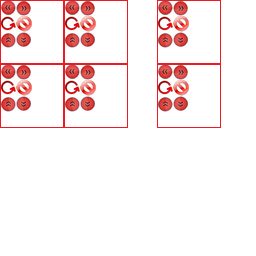
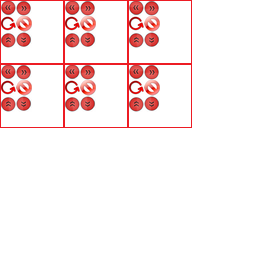
Changed packer to non-rectangular.

Changed region(s): [[0.5, 0.0, 0.875, 0.5]]

diff --git a/plugins/atlasgen/growingbinpacker/growingbinpacker.cpp b/plugins/atlasgen/growingbinpacker/growingbinpacker.cpp
@@ -1,4 +1,7 @@
 #include "growingbinpacker.h"
+
+#include "../fullsearchpacker/imagearranger.h"
+
 #include "../../../include/3rdparty/framepacker/framepacker.hpp"
 
 #include <QPainter>
@@ -88,29 +91,34 @@ growingbinpacker::GrowingBinPacker::GrowingBinPacker()
 
 void growingbinpacker::GrowingBinPacker::pack(Atlas& atlas, QImage*& image)
 {
-    framepacker::packer<growingbinpacker::GrowingBinPacker::T> packer;
+	typedef framepacker::packer<growingbinpacker::GrowingBinPacker::T, false, false> packer_type;
+    packer_type packer;
     packer.padding = 0;
     packer.alpha_trim = false;
     packer.allow_rotate = false;
-	packer.comparer =  framepacker::packer<growingbinpacker::GrowingBinPacker::T>::compare_area;
+	packer.comparer =  packer_type::compare_area;
     
     growingbinpacker::GrowingBinPacker::T* result = new growingbinpacker::GrowingBinPacker::T();
-    framepacker::packer<growingbinpacker::GrowingBinPacker::T>::texture_type result_ptr(result);
+    packer_type::texture_type result_ptr(result);
 
-    framepacker::packer<growingbinpacker::GrowingBinPacker::T>::texture_coll_type packed;
-    framepacker::packer<growingbinpacker::GrowingBinPacker::T>::texture_coll_type failed;
+    packer_type::texture_coll_type packed;
+    packer_type::texture_coll_type failed;
     for(size_t i = 0; i < atlas.textures().size();  i++) {
         Texture* t = atlas.textures()[i];
         growingbinpacker::GrowingBinPacker::T* img = new growingbinpacker::GrowingBinPacker::T(t);
 
         packer.add(
             t->Name.toStdString(), 
-            framepacker::packer<growingbinpacker::GrowingBinPacker::T>::texture_type(img)
+            packer_type::texture_type(img)
         );
     }
     packer.pack(result_ptr, packed, failed);
 
-    image = new QImage(result->width(), result->height(), QImage::Format_ARGB32);
+	unsigned int width = fullsearchpacker::ImageArranger::nextPOT(result->width());
+	unsigned int height = fullsearchpacker::ImageArranger::nextPOT(result->height());
+	unsigned int wh = std::max(width, height);
+
+	image = new QImage(wh, wh, QImage::Format_ARGB32);
     image->fill(QColor(255, 255, 255, 0));
 
     QPainter painter(image);
